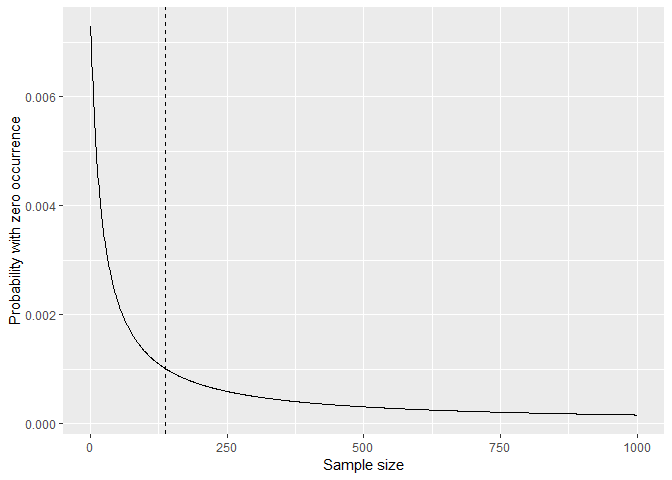
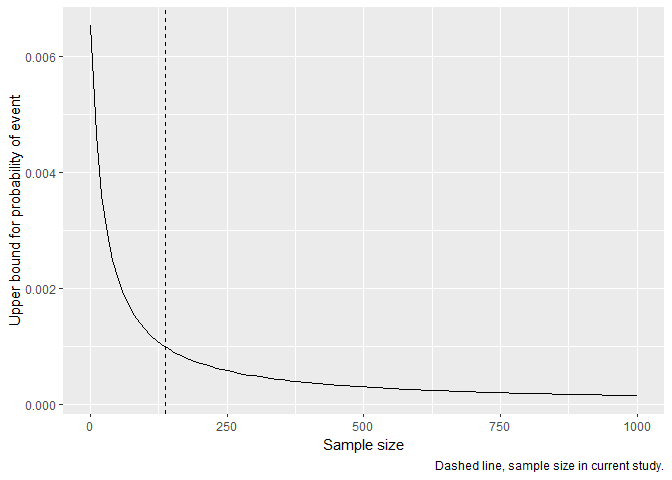
updated rule of three

diff --git a/README.md b/README.md
@@ -1,7 +1,7 @@
 Prevalence of HTLVI/II infection in Estonian population: modeling zero events
 ================
 Taavi PĆ¤ll
-Thu Mar 07 11:10:11 2019
+Thu Mar 07 11:18:21 2019
 
 Load libraries.
 ---------------
@@ -18,7 +18,7 @@ Rule of three (is next to useless)
 
 ### Laplace's rule of succession
 
-The rule of succession states that the estimated probability of failure is (F + 1)/(N + 2). Where F is the number of failures.
+The rule of succession states that the estimated probability of event is (F + 1)/(N + 2). Where F is the number of events.
 
 ``` r
 F <- 0
@@ -28,16 +28,13 @@ x <- 1:1000
 pe <- 1 - pbinom(0, size = x, prob = p)
 ggplot(tibble(x, pe)) +
     geom_line(aes(x, pe, group = 1)) +
-    geom_hline(yintercept = 0.95, linetype = "dashed")
+    geom_hline(yintercept = 0.95, linetype = "dashed") +
+    labs(caption = "Dashed line, 95% probability of an event.")
 ```
 
 ![](README_files/figure-markdown_github/unnamed-chunk-2-1.png)
 
-``` r
-sum(near(0.95, pe, tol = 0.0001))
-```
-
-    ## [1] 1
+Sample size at 95% probability of an event.
 
 ``` r
 x[near(0.95, pe, tol = 0.0001)]
@@ -106,7 +103,7 @@ coef(m)
 ```
 
     ##     shape1     shape2 
-    ##  0.1647473 19.1100558
+    ##  0.1610406 23.5330062
 
 ``` r
 alpha0 <- m$estimate[1]
@@ -122,7 +119,7 @@ ggplot(data = tibble(x = 0), mapping = aes(x = x)) +
     xlim(0.001, 0.1)
 ```
 
-![](README_files/figure-markdown_github/unnamed-chunk-11-1.png)
+![](README_files/figure-markdown_github/unnamed-chunk-12-1.png)
 
 Estimate upper bound for range of sample sizes.
 
@@ -136,4 +133,4 @@ ggplot(data = tibble(x = 0), mapping = aes(x = x)) +
          caption = "Dashed line, sample size in current study.")
 ```
 
-![](README_files/figure-markdown_github/unnamed-chunk-12-1.png)
+![](README_files/figure-markdown_github/unnamed-chunk-13-1.png)
